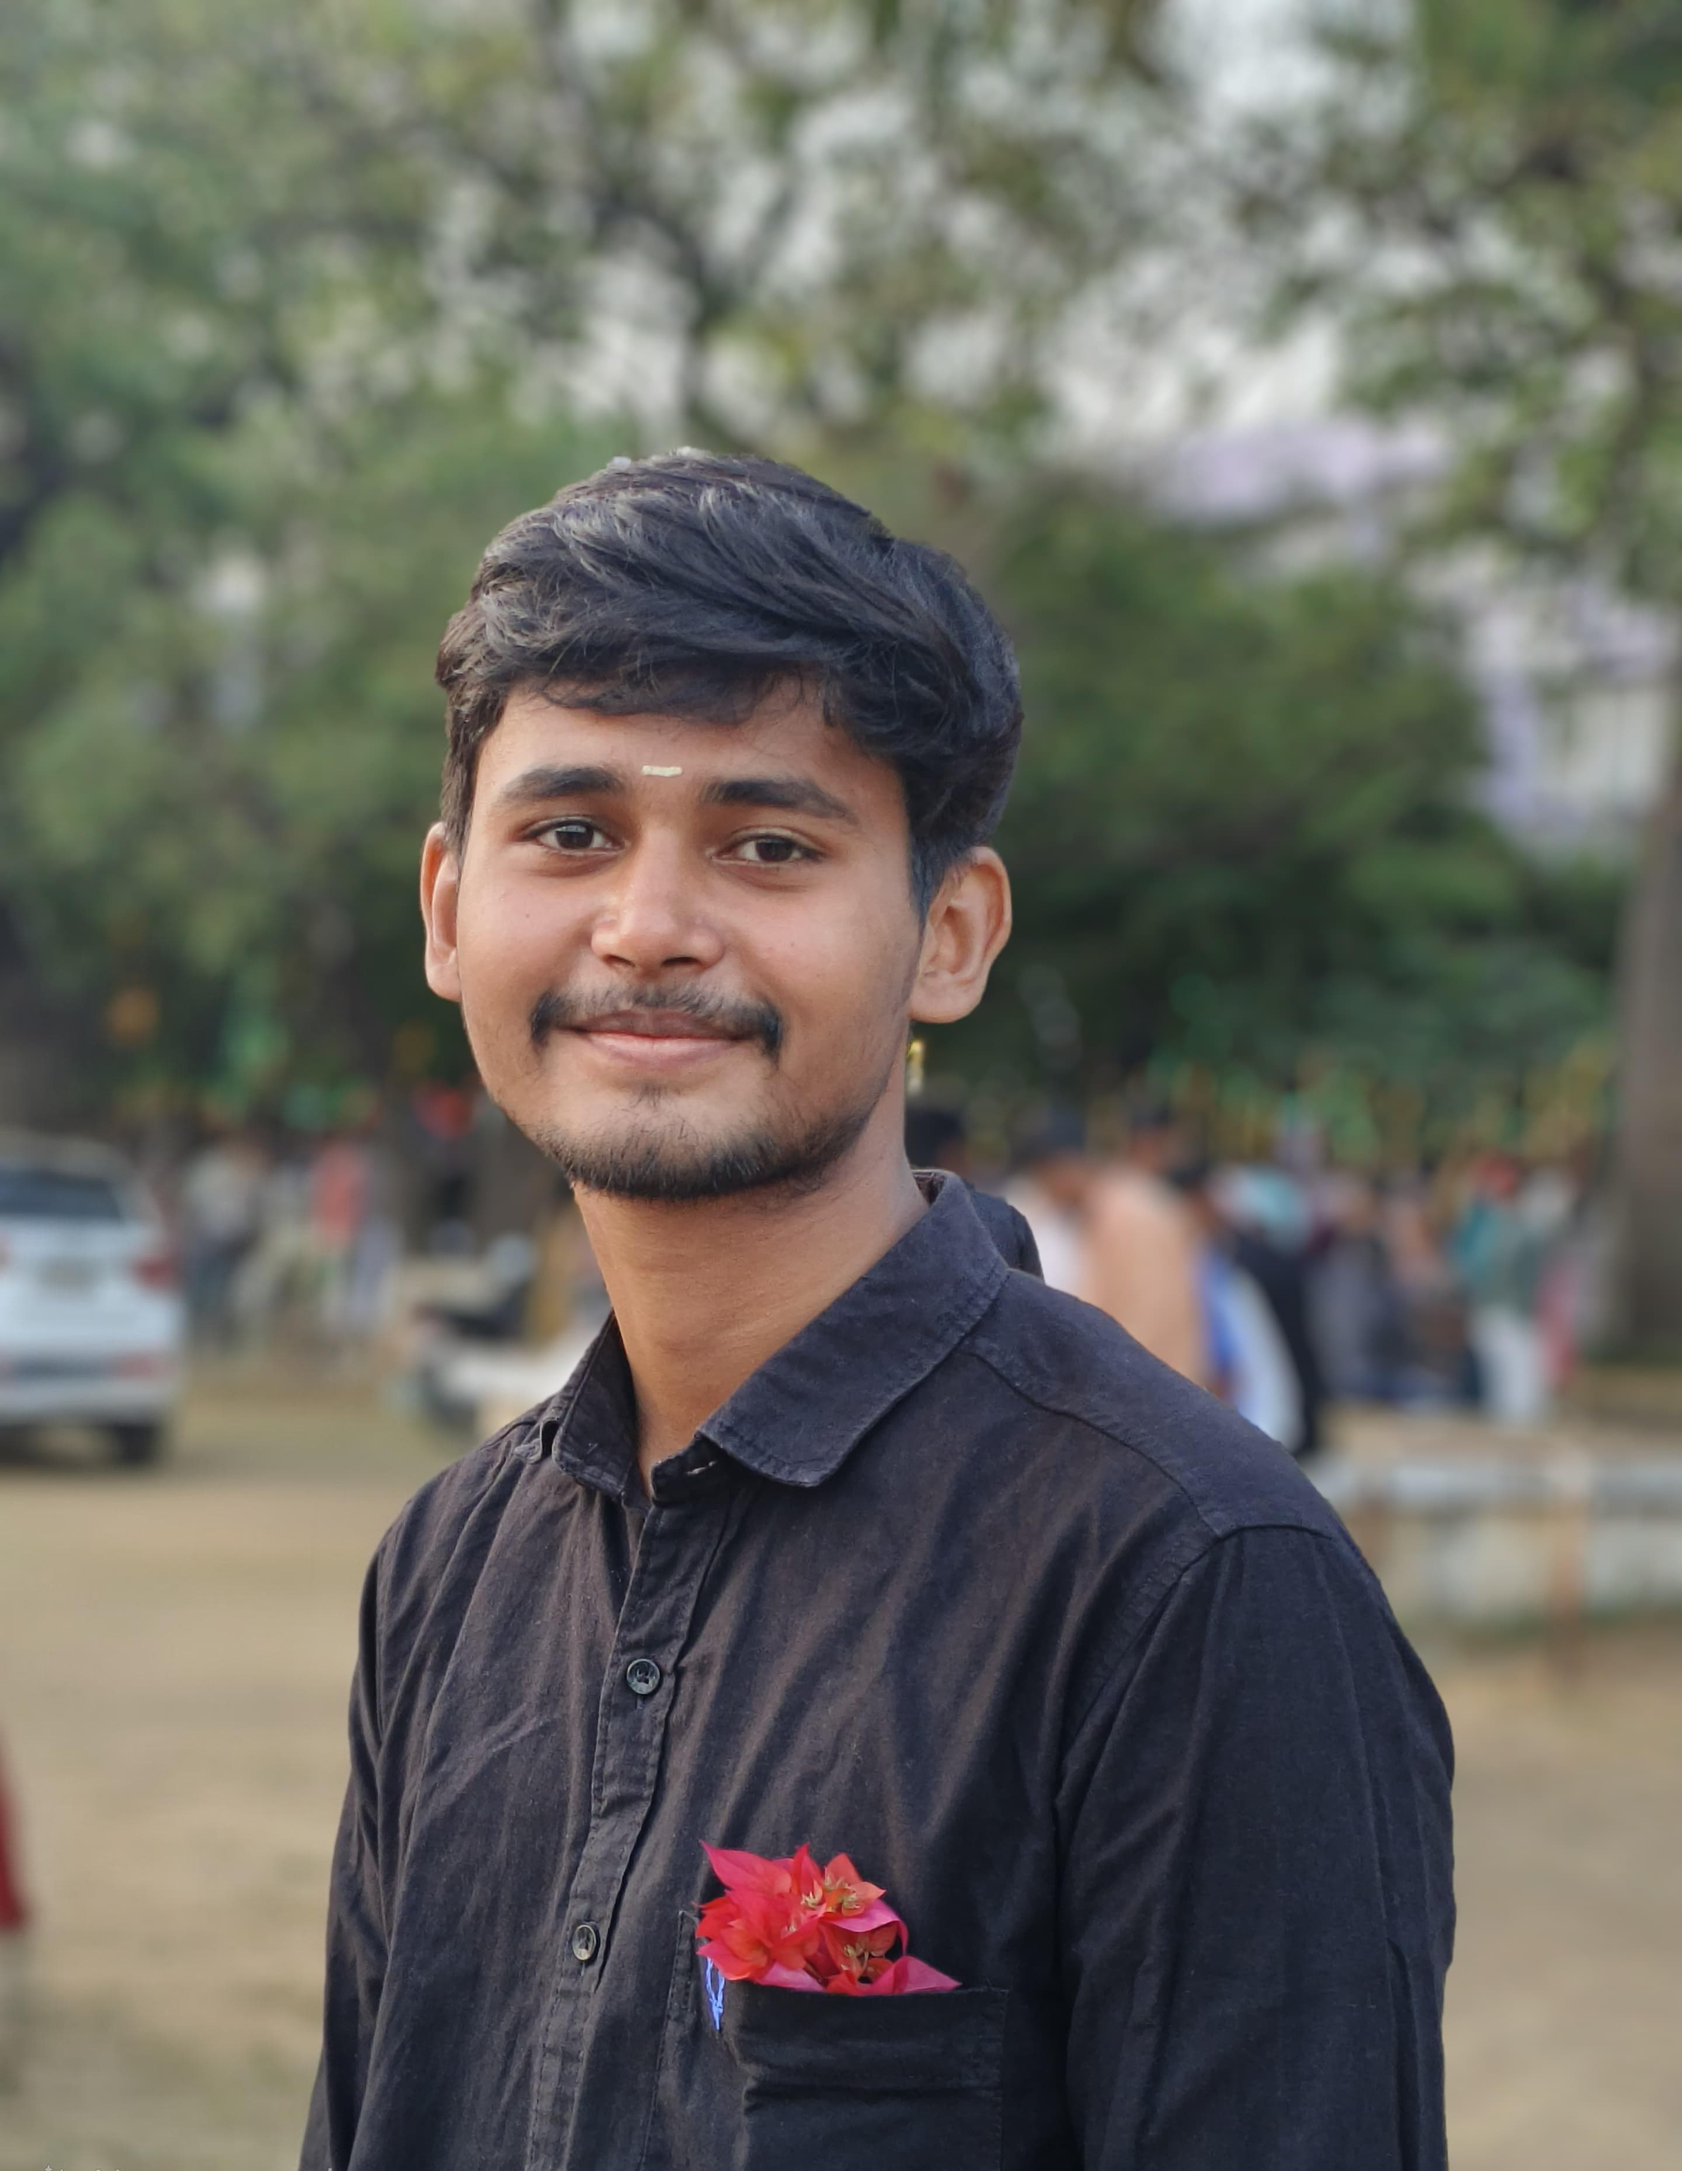
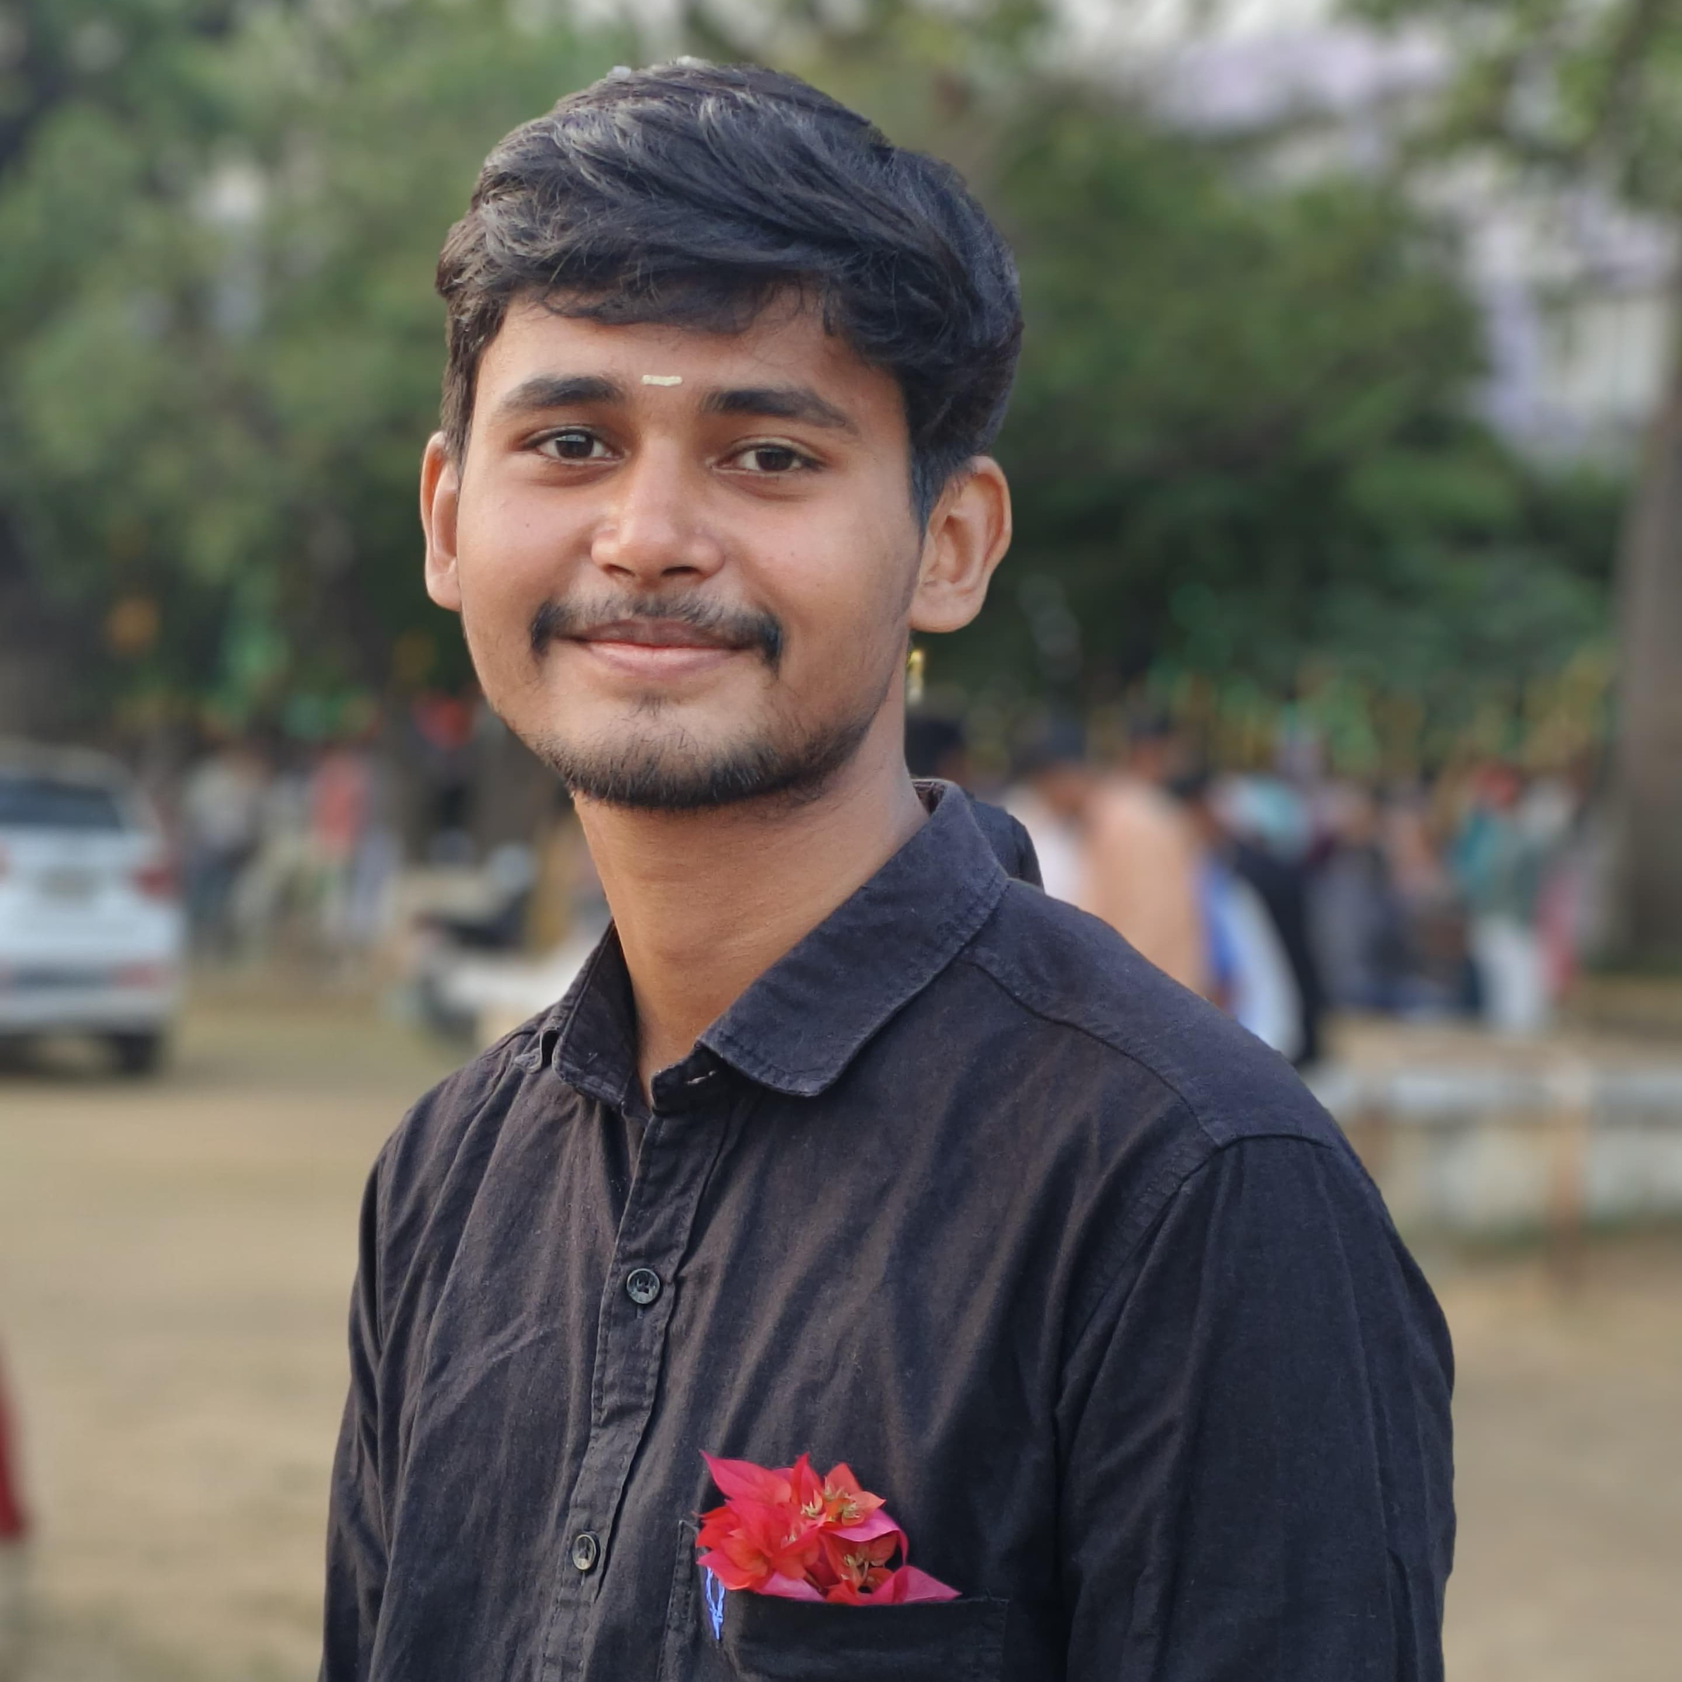
members pic update

diff --git a/app/about/page.tsx b/app/about/page.tsx
@@ -96,14 +96,13 @@ export default function AboutPage() {
     },
     {
       name: "Operations and Marketing",
-      head: { name: "Harshitha UR", image: "/placeholder.svg?height=100&width=100" },
+      head: { name: "Harshitha UR", image: "/members/Harshitha UR.jpg" },
       deputy: { name: "Ripika Sri R", image: "/placeholder.svg?height=100&width=100" },
       members: [
-        { name: "Shushmita K", image: "/placeholder.svg?height=100&width=100" },
-        { name: "Akshitha Ajaykumar", image: "/placeholder.svg?height=100&width=100" },
-        { name: "Janis Miracline A", image: "/placeholder.svg?height=100&width=100" },
-        { name: "Murugan Ramanujam", image: "/placeholder.svg?height=100&width=100" },
-        { name: "Abharna Shree M", image: "/placeholder.svg?height=100&width=100" },
+        { name: "Shushmita K", image: "/members/Sushmita.png" },
+        { name: "Akshitha Ajaykumar", image: "/members/akshitha_ajaykumar.JPG" },
+        { name: "Janis Miracline A", image: "/members/Janis.jpg" },
+        { name: "Abharna Shree M", image: "/members/Abharna.jpg" },
       ],
     },
     {
